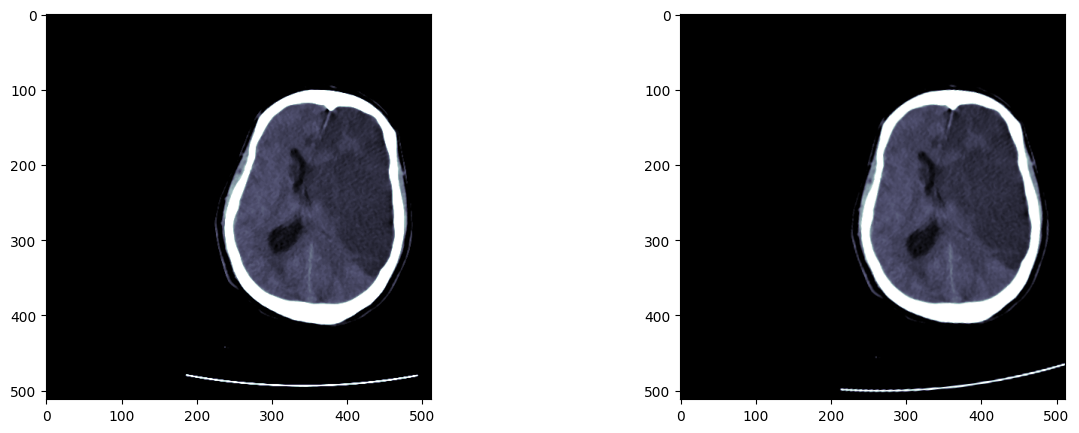
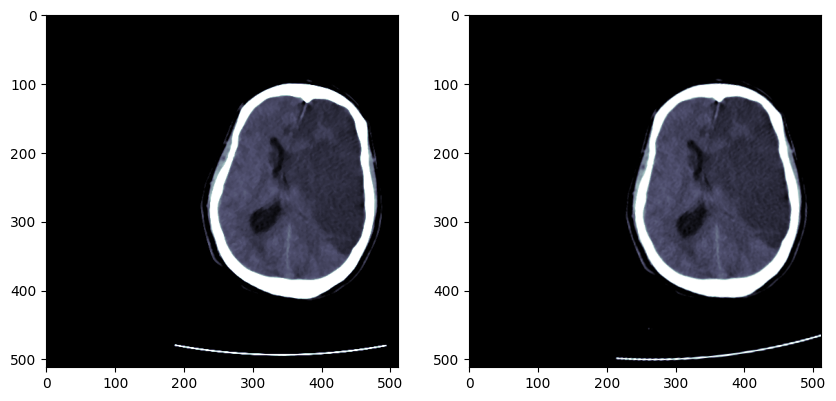
add random horizontal flip to methodology

diff --git a/chapters/methodology.tex b/chapters/methodology.tex
@@ -212,4 +212,24 @@
 \label{fig:preprocessing-pipeline}
 \end{figure}
 
-\قسمت{عرضهی دادهها به مدل}
+\قسمت{دادهافزایی}
+
+زمانی که دادهها پیشپردازش شوند، آمادهی عرضه به مدل خواهند بود.
+اما همانطور که پیشتر ذکر شد، تعداد این دادهها محدود است و مدل نمیتواند یادگیری قابل اعتمادی از این تعداد تصویر داشتهباشد.
+بنابراین
+ با مقدمهای که در فصل مفاهیم اولیه آمد، لازم است با حجم تصاویر با روشهای مناسبی افزایش یابد.
+ این روشها در قالب دادهافزایی مطرح میشوند.
+ در این قسمت به روشهای دادهافزایی مورد استفاده در این پژوهش اشاره میشود.\\
+
+ اولین تکنیک دادهافزایی مورد استفاده، قرینهسازی تصادفی تصویر مغز است.
+ به این معنا که هر تصویر ورودی، در هر بار مشاهده توسط مدل، به صورت تصادفی
+ جای نیمکرهی چپ و راستش تغییر میکند.
+ به این ترتیب اگر یک تصویر با آسیبدیدگی در نیمکرهی چپ در مجموعهداده وجود داشته باشد، مدل میتواند آسیبدیدگی در نیمکرهی راست را نیز بیاموزد.
+ یک نمونه از این دادهافزایی در شکل \ref{fig:horizontal-flip} قابل مشاهده است.
+
+ \begin{figure}[ht]
+\centering
+\includegraphics[width=\textwidth, keepaspectratio]{horizontal-flip.png}
+\caption[]{دادهافزایی به روش قرینهسازی تصادفی افقی.}
+\label{fig:horizontal-flip}
+\end{figure}
